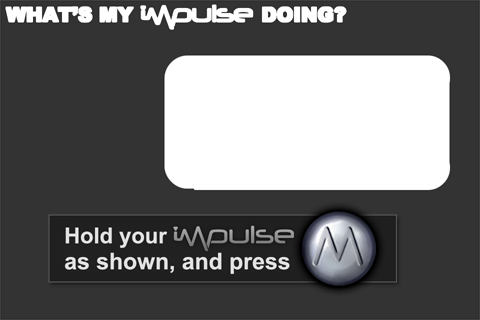
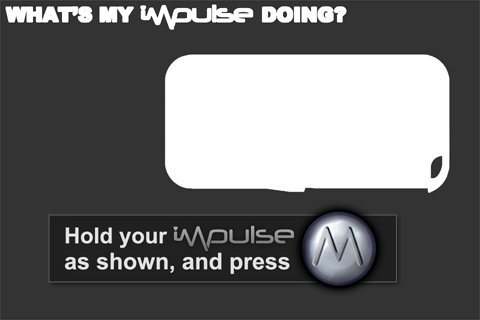
MOVED controller front.  updated BGstartup image

diff --git a/iMpulse/BPMCocos2D/BPMControllerSprite.m b/iMpulse/BPMCocos2D/BPMControllerSprite.m
@@ -36,7 +36,7 @@
         //Create Some Sprites
         //////////////////////////////
         controllerFront = [CCSprite spriteWithFile:@"controller_front.png"];
-        controllerFront.position = ccp(0,0);
+        controllerFront.position = ccp(-4,1);
         
         controllerBack = [CCSprite spriteWithFile:@"controller_back.png"];
         controllerBack.position = ccp(38,-120);
